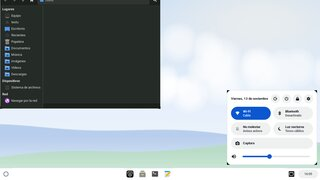
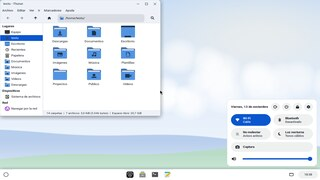
fix(themes): write the session keys into the xfconf files
Without a running session (installer chroot, --skel) the GTK theme, icons,
fonts and xfwm4 decoration only went through xfconf-query, so a fresh user
kept skel's Adwaita-dark and old decoration. Nube previews now come from a
real install.

diff --git a/CHANGELOG.md b/CHANGELOG.md
@@ -41,6 +41,13 @@ Aún no hay ISO pública: todo se construye desde este repositorio.
 - La cabecera de sl-welcome usa los colores del tema activo.
 
 ### Arreglos
+- **El tema elegido en el instalador ya se ve en el usuario nuevo.** El skel
+  trae `xsettings.xml` y `xfwm4.xml` con Adwaita-dark y la decoración vieja,
+  y `sl-theme` solo los cambiaba con `xfconf-query`, que en el chroot del
+  instalador no existe: un tema claro como Nube salía con GTK oscuro y sin
+  sus ventanas. Ahora escribe esas claves (tema GTK, iconos, fuentes,
+  decoración y botones) también en los ficheros. Probado instalando la ISO
+  del 2026-11-13 en QEMU con Nube.
 - kitty no cargaba los colores del tema: faltaba el `include` en
   `kitty.conf`.
 - LXTerminal ignoraba su paleta (faltaba `color_preset=Custom`).
